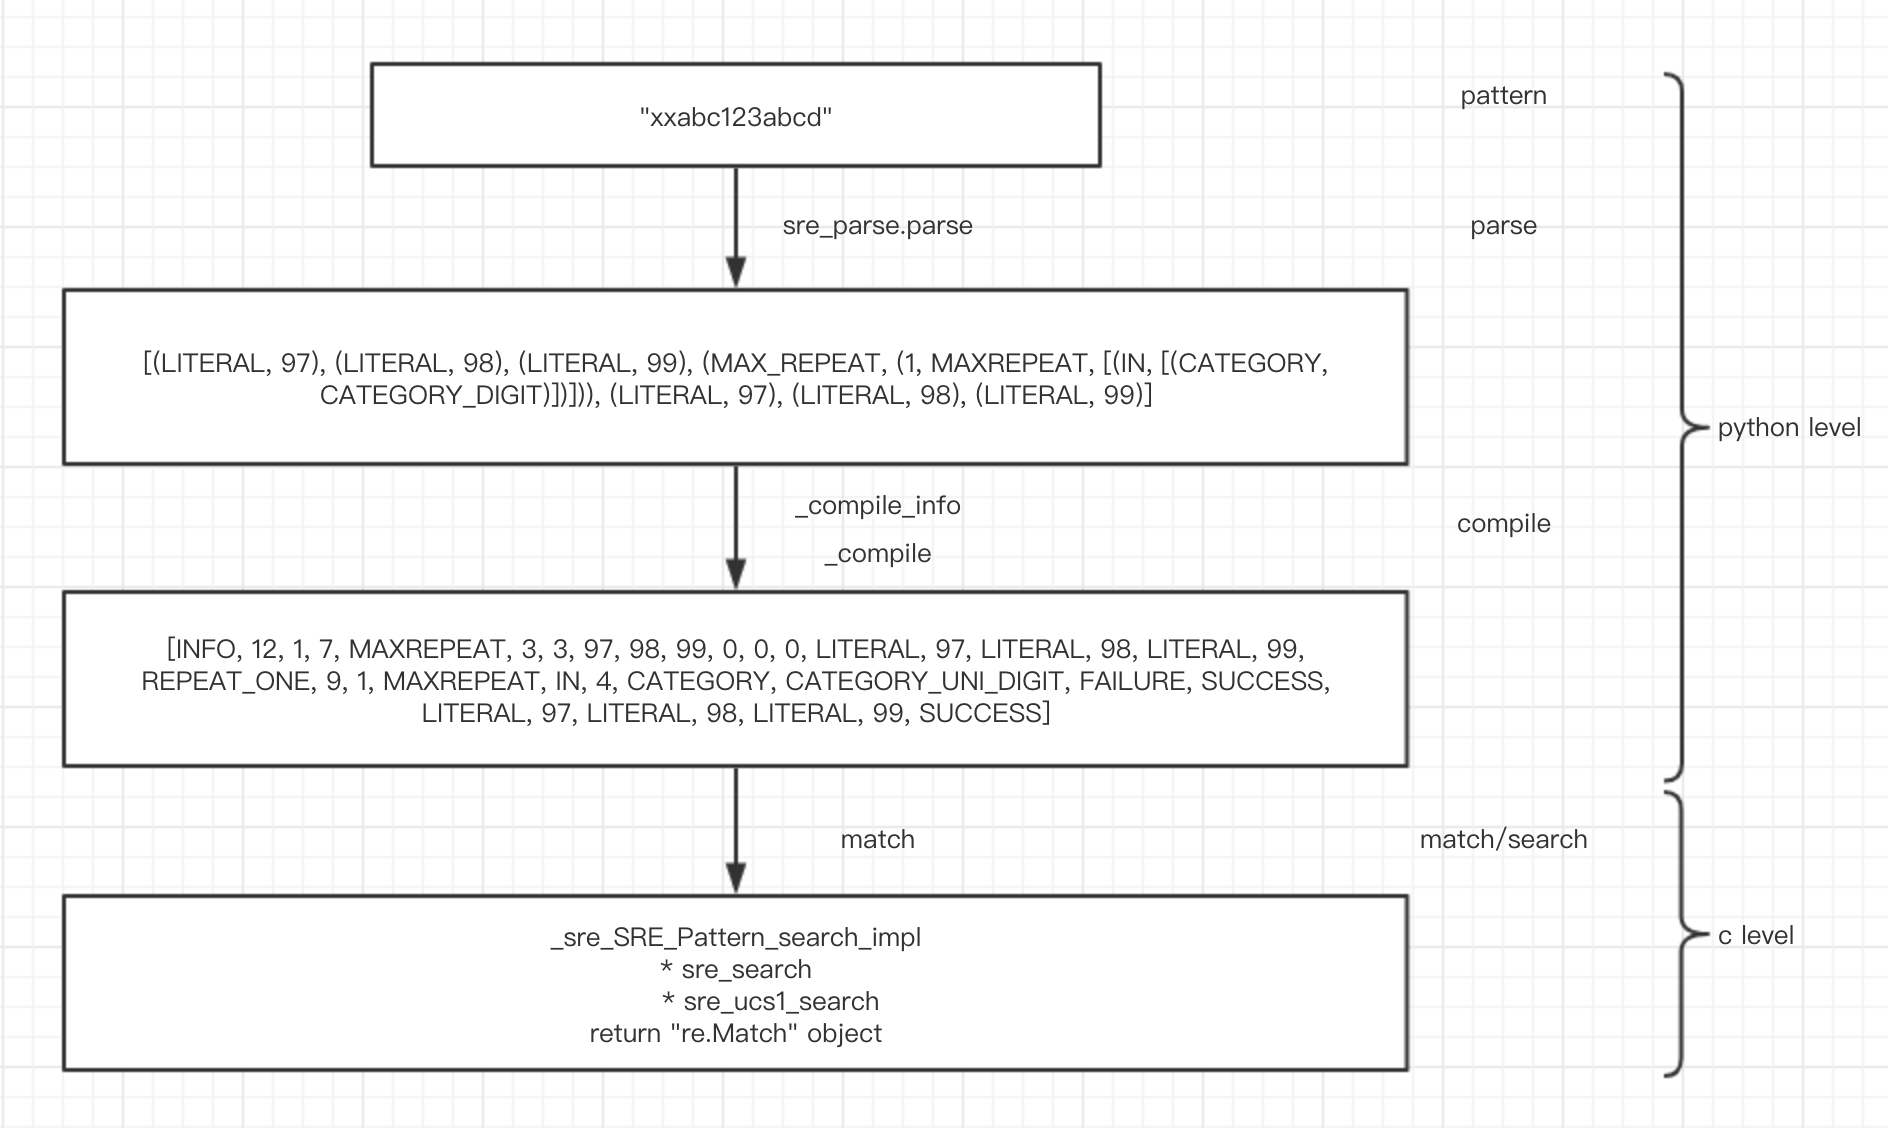
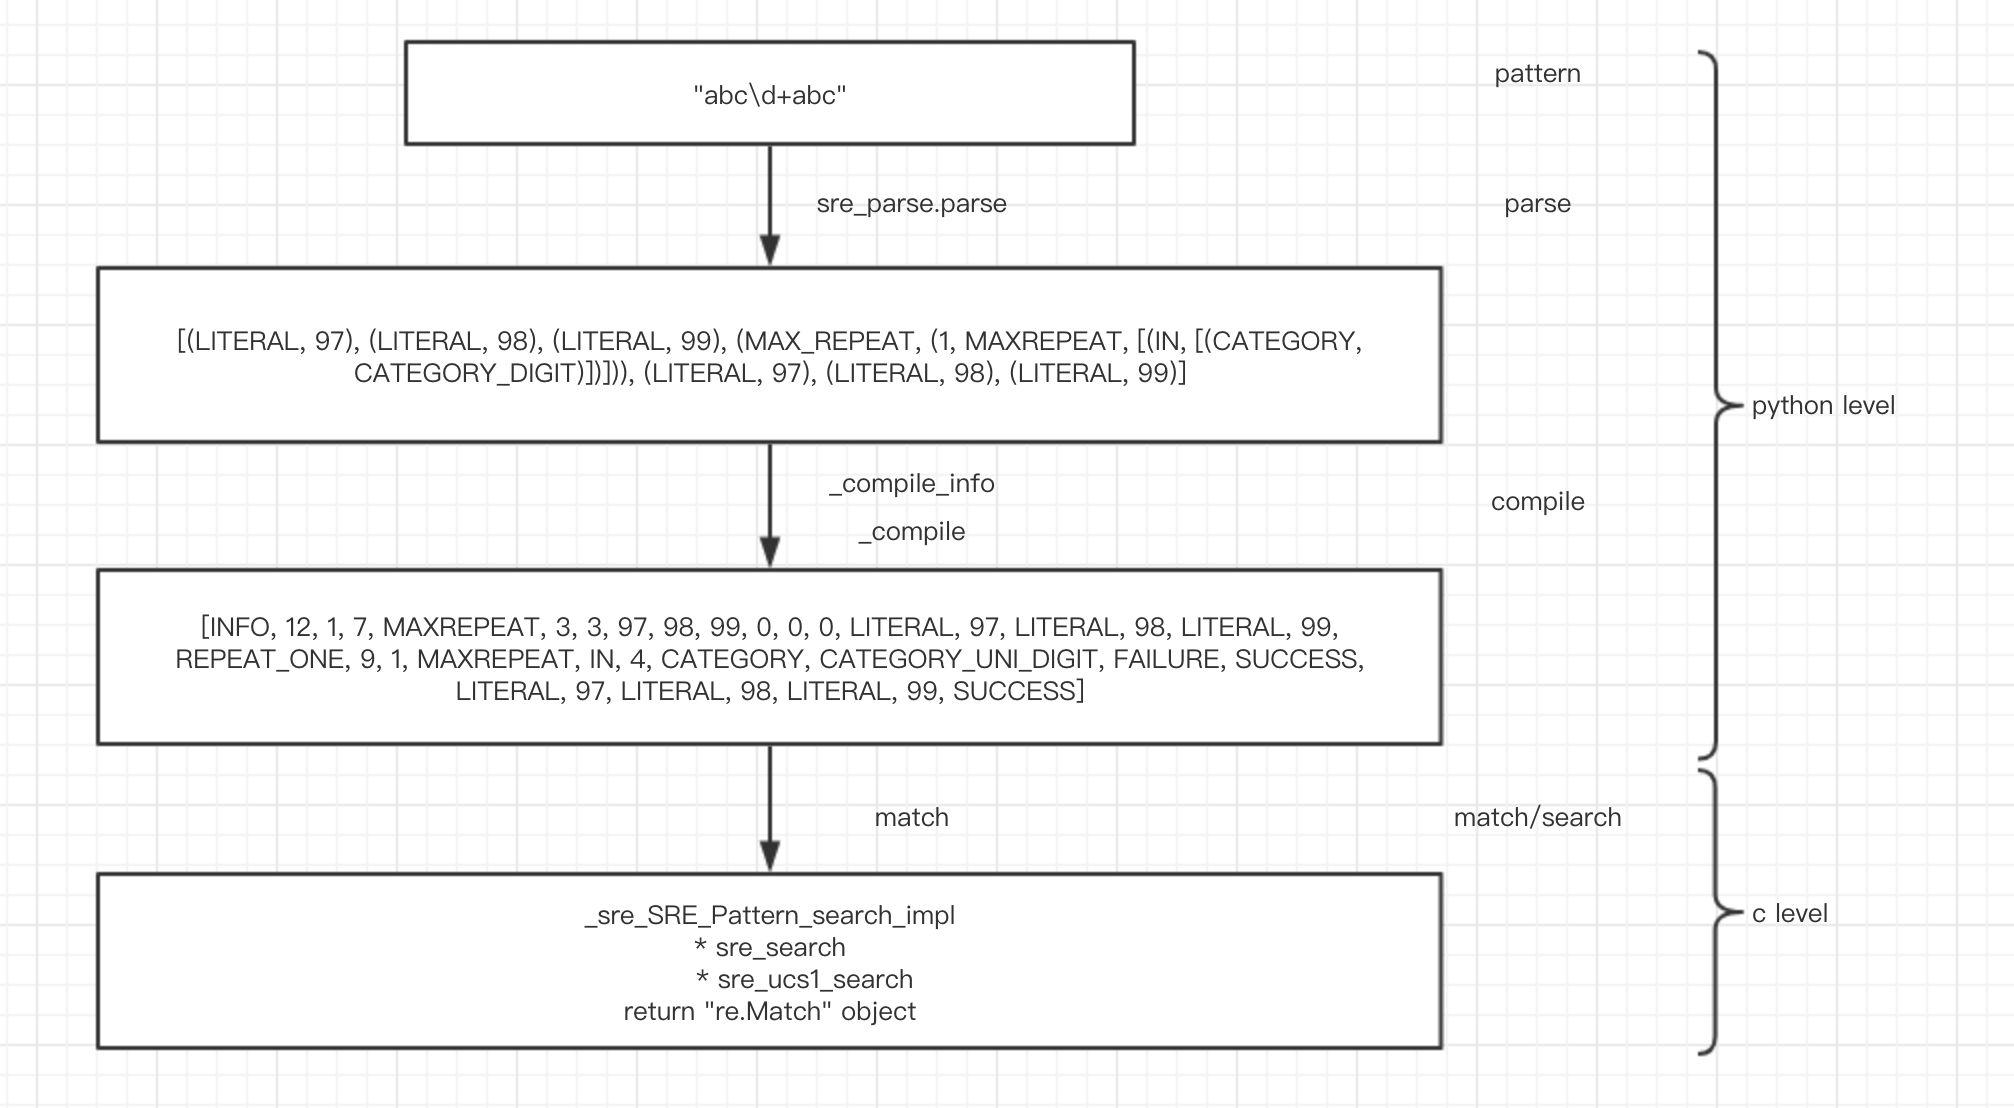
regex done

diff --git a/Modules/re/re_cn.md b/Modules/re/re_cn.md
@@ -1,18 +1,18 @@
 # re
 
-### contents
+### 目录
 
-* [related file](#related-file)
-* [how regex work](#how-regex-work)
+* [相关位置文件](#相关位置文件)
+* [正则内部如何实现](#正则内部如何实现)
 	* [parse](#parse)
 	* [compile](#compile)
 	* [match](#match)
-* [code detail](#code-detail)
+* [代码细节](#代码细节)
 	* [sre_ucs1_search](#sre_ucs1_search)
 	* [fifo cache](#fifo-cache)
-* [read more](#read-more)
+* [更多资料](#更多资料)
 
-#### related file
+#### 相关位置文件
 * cpython/Lib/re.py
 * cpython/Lib/sre_compile.py
 * cpython/Lib/sre_constants.py
@@ -23,30 +23,30 @@
 * cpython/Modules/_sre.c
 * cpython/Modules/clinic/_sre.c.h
 
-#### how regex work
+#### 正则内部如何实现
 
-what happened when you execute the following code ?
+当你执行以下命令的时候发生了什么?
 
     import re
     re.search("abc\d+abc", "xxabc123abcd") # re.DEBUG)
 
-the call stack
+调用栈
 
 ![call_stack](https://github.com/zpoint/CPython-Internals/blob/master/Modules/re/call_stack.png)
 
-the overview of different phases of **re.search**
+**re.search** 不同阶段的概览
 
 ![overview](https://github.com/zpoint/CPython-Internals/blob/master/Modules/re/overview.png)
 
-let's see what's going on in each step
+我们看看在不同阶段都发生了什么
 
 ##### parse
 
-the core code in **parse** phase is in **cpython/Lib/sre_parse.py**
+ **parse** 阶段的核心代码在这个位置 **cpython/Lib/sre_parse.py**
 
-there is a class named **Tokenizer** to split your regex text into token, and **_parse** function is in charge of binding the token with the **sre_constants** code
+有一个叫做 **Tokenizer** 的类负责把你输入的文本拆成一个一个的 token, **_parse** 函数负责把 token 和一些 **sre_constants** 绑定在一起
 
-	# pseudo code
+	# 伪代码
 	tokenizer = Tokenizer(pattern, flags)
     while True:
     	next_token = tokenizer.get_next_token()
@@ -54,7 +54,7 @@ there is a class named **Tokenizer** to split your regex text into token, and **
         	break
     	parse(next_token)
 
-let's run the parse phase with regex pattern `abc\d+abc`
+我们用前面输入的文本来跑一下 `abc\d+abc`
 
 	next_token: a
 	rest part of token: bc\d+abc
@@ -72,7 +72,7 @@ let's run the parse phase with regex pattern `abc\d+abc`
     rest part of token: +abc
     parse result: [(LITERAL, 97), (LITERAL, 98), (LITERAL, 99), (IN, [(CATEGORY, CATEGORY_DIGIT)])]
 
-now, the **next_token** is `'+'`, the `parse` function will pop whatever in the last parse result, and insert in back with the repeat symbol
+现在 **next_token** 是 `'+'`, `parse` 函数会把当前最后一个结果取出, 加上这个 + 号代表的 symbol 之后再插回去
 
 	item = parse_result[-1:]
     min, max = 1, MAXREPEAT
@@ -96,11 +96,11 @@ now, the **next_token** is `'+'`, the `parse` function will pop whatever in the 
 
 ##### compile
 
-this is the input of the **compile** phase
+这是 **compile** 阶段的输入, 也是上一阶段的输出
 
     [(LITERAL, 97), (LITERAL, 98), (LITERAL, 99), (MAX_REPEAT, (1, MAXREPEAT, [(IN, [(CATEGORY, CATEGORY_DIGIT)])])), (LITERAL, 97), (LITERAL, 98), (LITERAL, 99)]
 
-the compile function in **sre_compile.py**
+compile(编译) 这个阶段的函数在 **sre_compile.py** 这个文件里
 
     def _code(p, flags):
 
@@ -117,34 +117,34 @@ the compile function in **sre_compile.py**
 
         return code
 
-the **info block** has the following structure `[INFO, length_of_prefix_code, mask_indicate_whether_has_prefix, min_length_for_the_pattern, max_length_for_the_pattern, prefix1, prefix2..., prefixn, overlap_table_for_prefix]`
+**info block** 具备以下的结构 `[INFO, 前缀code的长度, mask表示是否含有前缀, 当前的正则匹配成功所接受的最小长度, 接受的最大长度, 前缀1, 前缀2..., 前缀n, overlap_table_for_prefix]`
 
-after the **_compile_info** function, code becomes
+**_compile_info** 函数处理之后, code 变成
 
 	code == [INFO, 12, 1, 7, MAXREPEAT, 3, 3, 97, 98, 99, 0, 0, 0]
 
-12 means the length of the prefix part excluding the first **INFO** element is 12
+12 表示当前的 code 前缀部分除开第一个 **INFO** 以外的长度为 12
 
-1 is the mask value, 1 indicate that the current pattern has literal prefix
+1 是一个 mask, 值为 1 表示当前的 code 中包含文本前缀
 
-7 is the minimal length of the pattern `"abc\d+abc"`, i.e. length of `abc1abc` is 7
+7 是当前正则 `"abc\d+abc"` 所接受的最小长度的输入, 比如 `abc1abc` 长度为 7
 
-MAXREPEAT is the maximum length of the pattern `"abc\d+abc"`, constant **MAXREPEAT** indicate the +∞ (actually, the value is finite)
+MAXREPEAT s是当前正则 `"abc\d+abc"` 所接受的最大长度, 常量 **MAXREPEAT** 表示 +∞ (实际上最大长度也是有限制的)
 
-the first 3 is the length of literal prefix, (`"abc"` here, which is 3)
+第一个 3 是文本前缀的长度 (这里表示的是`"abc"`， 长为 3)
 
-the second 3 is the length of the prefix_skip, prefix_skip here has the same length as prefix
+第二个 3 是 **prefix_skip** 的长度, **prefix_skip** 和文本前缀的长度相同
 
-the following 97, 98, 99 is the prefix `"abc"`
+接下来的 97, 98, 99 表示文本前缀 `"abc"` (ascii 值)
 
-and the following 0, 0, 0 here is generated by the **_generate_overlap_table**
+接下来的 0, 0, 0 是函数 **_generate_overlap_table** 根据前缀生成的
 
-after compile the **info block**, the **pattern** will be compiled in `_compile(code, p.data, flags)`
+编译完 **info block** 之后, 会继续编译 **pattern**, 这部分在 `_compile(code, p.data, flags)` 中
 
 	for op, av in pattern:
     	compile_and_fill_code_according_to_op_and_av()
 
-	# pattern here is: [(LITERAL, 97), (LITERAL, 98), (LITERAL, 99), (MAX_REPEAT, (1, MAXREPEAT, [(IN, [(CATEGORY, CATEGORY_DIGIT)])])), (LITERAL, 97), (LITERAL, 98), (LITERAL, 99)]
+	# pattern 这里是: [(LITERAL, 97), (LITERAL, 98), (LITERAL, 99), (MAX_REPEAT, (1, MAXREPEAT, [(IN, [(CATEGORY, CATEGORY_DIGIT)])])), (LITERAL, 97), (LITERAL, 98), (LITERAL, 99)]
 
 	op: LITERAL av: 97
 	code: [LITERAL, 97]
@@ -157,7 +157,7 @@ after compile the **info block**, the **pattern** will be compiled in `_compile(
 
 	op: MAX_REPEAT av: (1, MAXREPEAT, [(IN, [(CATEGORY, CATEGORY_DIGIT)])])
 
-the handling process of MAX_REPEAT is a little bit different from others, the code snippest handling this situation is shown
+现在 op 为 MAX_REPEA, 对类型为 REPEAT 的处理方式有些许不同, 处理的代码段如下
 
     if op is MAX_REPEAT:
         emit(REPEAT_ONE)
@@ -166,17 +166,17 @@ the handling process of MAX_REPEAT is a little bit different from others, the co
     skip = _len(code); emit(0)
     emit(av[0])
     emit(av[1])
-    # position 1
-    _compile(code, av[2], flags) # recursive call
+    # 位置 1
+    _compile(code, av[2], flags) # 递归调用
     emit(SUCCESS)
-    code[skip] = _len(code) - skip # change the length
-    # position 2
+    code[skip] = _len(code) - skip # 把长度更改为真实长度
+    # 位置 2
 
-the **code** object in position 1
+**code** 对象在 位置 1 如下
 
 	code: [LITERAL, 97, LITERAL, 98, LITERAL, 99, REPEAT_ONE, 0, 1, MAXREPEAT]
 
-after the recursive call, **code** object in position 2, the length now becomes 9
+递归调用之后, **code** 对象在 位置 2 如下, length 现在变为 9
 
     op: IN av: [(CATEGORY, CATEGORY_DIGIT)]
     code: [LITERAL, 97, LITERAL, 98, LITERAL, 99, REPEAT_ONE, 9, 1, MAXREPEAT, IN, 4, CATEGORY, CATEGORY_UNI_DIGIT, FAILURE, SUCCESS]
@@ -190,17 +190,17 @@ after the recursive call, **code** object in position 2, the length now becomes 
 	op: LITERAL av: 99
 	code: [LITERAL, 97, LITERAL, 98, LITERAL, 99, REPEAT_ONE, 9, 1, MAXREPEAT, IN, 4, CATEGORY, CATEGORY_UNI_DIGIT, FAILURE, SUCCESS, LITERAL, 97, LITERAL, 98, LITERAL, 99, SUCCESS]
 
-combine the **_compile_info** and **_compile** together, the code to the next phase is
+**_compile_info** 和 **_compile** 都处理完后, code 对象如下所示, 会作为下一阶段的输入
 
     [INFO, 12, 1, 7, MAXREPEAT, 3, 3, 97, 98, 99, 0, 0, 0, LITERAL, 97, LITERAL, 98, LITERAL, 99, REPEAT_ONE, 9, 1, MAXREPEAT, IN, 4, CATEGORY, CATEGORY_UNI_DIGIT, FAILURE, SUCCESS, LITERAL, 97, LITERAL, 98, LITERAL, 99, SUCCESS]
 
 ##### match
 
-the match phase is written in c
+match 阶段是用 c 完成的
 
-it's a big for loop, act as a state machine, every complied opcode pass down here will be passed to this loop, the loop will exam the pattern according to the opcode, if mismatch in any state, go to fail
+核心部分是一个超大的 for 循环, 以这样一种方式来完成自动机的转换, 每一个上一阶段编译后的 opcode 会被传到这里, 根据不同的 opcode 进入不同的分支执行不同的代码段, 比如如果是文本 ascii 值 97, 就单纯的比较 97 和字符串对应的值是否相同, 如果是 +, 就按照 + 的方式处理, 成功跳转到下一步, 失败跳转到失败, 可以参考下自动机理论
 
-if success, go on, there will be another article talking about the match phase(if I have time)
+实现方式和 python 虚拟机中的 ceval.c 类似, 如果时间允许, 会专门写一篇 match 这一阶段的实现
 
     for (;;) {
     	switch (pattern[i]) {
@@ -211,17 +211,17 @@ if success, go on, there will be another article talking about the match phase(i
         }
     }
 
-#### code detail
+#### code 代码细节
 
 ##### sre_ucs1_search
 
-follow the call stack to here
+根据调用栈找到这的时候
 
 	status = sre_search(&state, PatternObject_GetCode(self));
 
-the defination of **sre_search** is
+**sre_search** 的定义如下
 
-the search will delegate to different function according to the real size of the **unicode** object, for detail of memory usage of **unicode** object, please refer to [how unicode implemented](https://github.com/zpoint/CPython-Internals/blob/master/BasicObject/str/str.md)
+搜索会根据字符串的不同字节占用数而指派到不同的函数上面去干活, **unicode** 的不同类型可以参加之前的 [unicode 对象的实现](https://github.com/zpoint/CPython-Internals/blob/master/BasicObject/str/str_cn.md)
 
     LOCAL(Py_ssize_t)
     sre_search(SRE_STATE* state, SRE_CODE* pattern)
@@ -234,13 +234,13 @@ the search will delegate to different function according to the real size of the
         return sre_ucs4_search(state, pattern);
     }
 
-if we search for **sre_ucs1_search** in the folder, we can't find anything
+我们在 cpython 文件夹下搜索 **sre_ucs1_search** 这个函数是搜不到内容的
 
 	find . -name '*' -exec grep -nHr "sre_ucs1_search" {} \;
     Binary file ./libpython3.8m.a matches
 	./Modules/_sre.c:572:        return sre_ucs1_search(state, pattern);
 
-the trick here is for reusing the common part in **sre_lib.h** with different defination
+这里的原因是要似的 **sre_lib.h** 这个文件的公共部分导入多次, 上面的函数只能用##拼接的形式定义
 
     /* generate 8-bit version */
 
@@ -263,24 +263,24 @@ the trick here is for reusing the common part in **sre_lib.h** with different de
     #define SRE(F) sre_ucs4_##F
     #include "sre_lib.h"
 
-we can find the defination of **search** in **sre_lib.h**
+我们现在能在 **sre_lib.h** 中找到 **search** 了
 
     LOCAL(Py_ssize_t)
     SRE(search)(SRE_STATE* state, SRE_CODE* pattern)
 
-which will be expanded to three different form
+展开之后会有三种不同的形式
 
 	inline Py_ssize_t sre_ucs1_search(SRE_STATE* state, SRE_CODE* pattern)
     inline Py_ssize_t sre_ucs2_search(SRE_STATE* state, SRE_CODE* pattern)
     inline Py_ssize_t sre_ucs4_search(SRE_STATE* state, SRE_CODE* pattern)
 
-when I go inside the expanded **sre_ucs1_search**, I found the [match](#match) phase
+进入展开后的函数, 就能找到 [match](#match) 部分的代码了
 
 #### fifo cache
 
-when you called the **re.compile**, there will be a fifo cache in the python level
+当你调用 **re.compile** 时, python 层级实现了一个 fifo 缓存
 
-**_cache** is of type dictionary, and because type dict is now ordered([dict implementation](https://github.com/zpoint/CPython-Internals/blob/master/BasicObject/dict/dict.md#delete-in-entries)), it act as a fifo queue
+**_cache** 的类型是字典, 因为字典对象现在是有序的了([字典对象实现](https://github.com/zpoint/CPython-Internals/blob/master/BasicObject/dict/dict.md#delete)), 就可以把他当成一个 fifo 队列使用
 
     >>> r1 = re.compile("a\d+b")
     >>> id(r1)
@@ -290,23 +290,23 @@ when you called the **re.compile**, there will be a fifo cache in the python lev
     4409699184
     >>> r3 = re.compile("a\d+b")
     >>> id(r3)
-    4409698992 # same as r1
+    4409698992 # 和 r1 相同
     >>> r4 = re.compile("b\d+b")
     >>> id(r4)
-    4409699184 # same as r2
+    4409699184 # 和 r2 相同
 
-the cache mechanism is written in python
+cache 机制的 python 实现代码
 
     _cache = {}  # ordered!
 
     _MAXCACHE = 512
     def _compile(pattern, flags):
-    	# omit
+    	# 忽略部分代码
         try:
             return _cache[type(pattern), pattern, flags]
         except KeyError:
             pass
-		# omit
+		# 忽略部分代码
         p = sre_compile.compile(pattern, flags)
         if not (flags & DEBUG):
             if len(_cache) >= _MAXCACHE:
@@ -318,7 +318,7 @@ the cache mechanism is written in python
             _cache[type(pattern), pattern, flags] = p
         return p
 
-#### read more
+#### 更多资料
 * [ccs.neu.edu->sre](http://www.ccs.neu.edu/home/shivers/papers/sre.txt)
 * [Python's Hidden Regular Expression Gems](http://lucumr.pocoo.org/2015/11/18/pythons-hidden-re-gems/)
 * [Understanding Python’s SRE structure](https://blog.labix.org/2003/06/16/understanding-pythons-sre-structure)

diff --git a/README_CN.md b/README_CN.md
@@ -45,7 +45,7 @@
 
 #### 库
 
- - [ ] [re](https://github.com/zpoint/CPython-Internals/blob/master/Modules/re/re.md)
+ - [x] [re](https://github.com/zpoint/CPython-Internals/blob/master/Modules/re/re_cn.md)
  - [ ] asyncio
 
 #### 解释器相关
